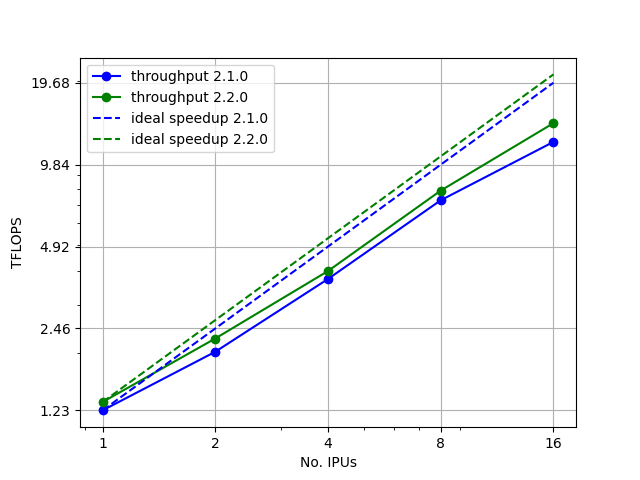
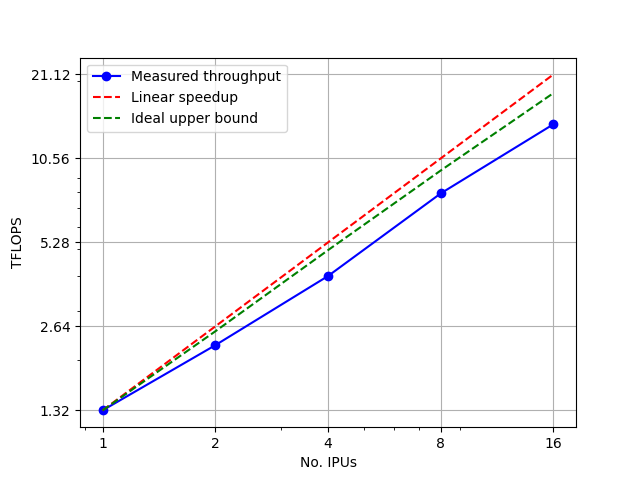
fixes here and there

diff --git a/HeatEquation3D/analysis.py b/HeatEquation3D/analysis.py
@@ -1,63 +1,43 @@
 import numpy as np
 import matplotlib.pyplot as plt
 
-ipus = np.array([1, 2, 4, 8, 16])
-tflops = np.array([1.23, 2.02, 3.74, 7.28, 11.93]) # SDK 2.1.0
-tflops2 = np.array([1.32, 2.26, 4.00, 7.90, 13.98]) # SDK 2.2.0
-storebw = np.array([0.61, 1.01, 1.87, 3.64, 5.97])
-loadbw = np.array([4.29, 7.07, 13.08, 25.49, 41.76])
-totalbw = np.array([4.90, 8.08, 14.95, 29.13, 47.72])
-ideal_tflops = ipus*tflops[0]
-ideal_tflops2 = ipus*tflops2[0]
-ideal_storebw = ipus*storebw[0]
-ideal_loadbw = ipus*loadbw[0]
-ideal_totalbw = ipus*totalbw[0]
-
-
 def plot_throughput():
+    ipus = np.array([1, 2, 4, 8, 16])
+    tflops = np.array([1.32, 2.26, 4.00, 7.91, 14.0])
+
+    # Linear speedup
+    linear_tflops = ipus*tflops[0]
+
+    # Expected ideal speedup (given chip-to-chip communication)
+    t1 = 1.95e-4 # us
+    sides = np.array([320, 403, 508, 640, 806])
+    float_size = 4
+    num_messages = 4 # send 2 + receive 2
+    elems_per_message = sides**2
+    dataGB = num_messages*float_size*elems_per_message*1e-9
+    delta = dataGB/320 # s
+    expected_tflops = tflops[0]*ipus*t1/(t1+delta)
+    expected_tflops[0] = tflops[0]
+
+    # Plot
     fig = plt.figure()
     ax = fig.add_subplot(1,1,1)
-    ax.plot(ipus, tflops, "bo-", label="throughput 2.1.0")
-    ax.plot(ipus, tflops2, "go-", label="throughput 2.2.0")
-    ax.plot(ipus, ideal_tflops, "b--", label="ideal speedup 2.1.0")
-    ax.plot(ipus, ideal_tflops2, "g--", label="ideal speedup 2.2.0")
+    ax.plot(ipus, tflops, "bo-", label="Measured throughput")
+    ax.plot(ipus, linear_tflops, "r--", label="Linear speedup")
+    ax.plot(ipus, expected_tflops, "g--", label="Ideal upper bound")
     ax.legend()
     ax.set_xlabel("No. IPUs")
     ax.set_ylabel("TFLOPS")
     ax.set_yscale("log")
     ax.set_xscale("log")
     ax.set_xticks(ipus)
-    ax.set_yticks(ideal_tflops)
+    ax.set_yticks(linear_tflops)
     ax.set_xticklabels([str(i) for i in ipus])
-    ax.set_yticklabels([str(i) for i in ideal_tflops])
+    ax.set_yticklabels([str(i) for i in linear_tflops])
     ax.grid()
     plt.savefig("flops.png")
+
     return None
-
-
-def plot_bandwidths():
-    fig = plt.figure()
-    ax = fig.add_subplot(1,1,1)
-    ax.plot(ipus, loadbw, "bo-", label="load bandwidth")
-    ax.plot(ipus, ideal_loadbw, "b--", label="ideal load BW speedup")
-    ax.plot(ipus, storebw, "ro-", label="store bandwidth")
-    ax.plot(ipus, ideal_storebw, "r--", label="ideal store BW speedup")
-    ax.plot(ipus, totalbw, "go-", label="total bandwidth")
-    ax.plot(ipus, ideal_totalbw, "g--", label="ideal total BW speedup")
-    ax.legend()
-    ax.set_xlabel("No. IPUs")
-    ax.set_ylabel("TB/s")
-    ax.set_yscale("log")
-    ax.set_xscale("log")
-    ax.set_xticks(ipus)
-    ax.set_yticks(ideal_totalbw)
-    ax.set_xticklabels([str(i) for i in ipus])
-    ax.set_yticklabels([str(i) for i in ideal_totalbw])
-    ax.grid()
-    plt.savefig("bw.png")
-    return None
-
 
 if __name__ == "__main__":
     plot_throughput()
-    # plot_bandwidths()

diff --git a/HeatEquation3D/utils.hpp b/HeatEquation3D/utils.hpp
@@ -307,7 +307,7 @@ void printResults(utils::Options &options, double wall_time) {
     << "\nNo. IPUs & Grid & No. Iterations & Time [s] & Throughput [TFLOPS] & Minimum Bandwidth [TB/s] \\\\\n" 
     << options.num_ipus << " & "
     << "$" << options.height << "\\times " << options.width << "\\times " << options.depth << "$ & " 
-    << options.num_iterations << " s & " 
+    << options.num_iterations << " & " 
     << wall_time << " & " 
     << tflops << " & " 
     << bandwidth_TB_s << " \\\\"
